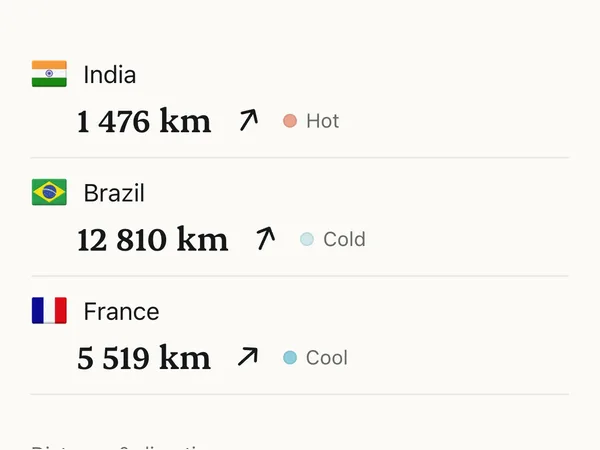
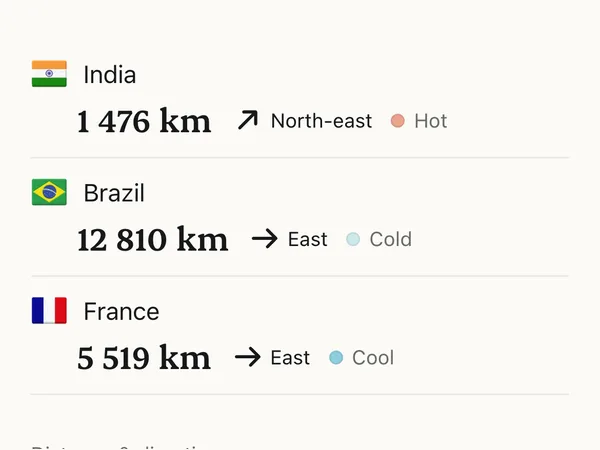
GeoWordle arrows snap to their eight compass words; help pictures show the new map

Changed region(s): [[0.42, 0.4978, 0.69, 0.56], [0.39, 0.2489, 0.75, 0.3111], [0.39, 0.7778, 0.66, 0.8089]]

diff --git a/src/games/geo-wordle/board.tsx b/src/games/geo-wordle/board.tsx
@@ -15,7 +15,9 @@ import './geo-wordle.css';
 interface GeoBoardProps {state:GeoWordleView;dispatch:(action:GeoCommitAction)=>void;busy:boolean;pendingGuess?:string|null}
 function kmLabel(km:number):string{return `${String(Math.max(0,Math.round(km))).replace(/\B(?=(\d{3})+(?!\d))/g,' ')} km`;}
 function bandLabel(g:GeoGuess):string {return g.correct?'Found it':g.sharedBorder?'Neighbour':g.distanceKm===0?'Very close':g.band[0].toUpperCase()+g.band.slice(1);}
-function Arrow({bearing}:{bearing:number}){return <svg className="gw-arrow" viewBox="0 0 24 24" width="22" height="22" aria-hidden="true" style={{transform:`rotate(${Math.round(bearing-90)}deg)`}}><path d="M4 12h16m-6-6 6 6-6 6" fill="none" stroke="currentColor" strokeWidth="2.25" strokeLinecap="round" strokeLinejoin="round"/></svg>;}
+/** Arrows snap to the same eight directions as the word beside them, so an arrow never says more or less than its label. */
+function compass(bearing:number):number{return (Math.round(bearing/45)%8)*45;}
+function Arrow({bearing}:{bearing:number}){return <svg className="gw-arrow" viewBox="0 0 24 24" width="22" height="22" aria-hidden="true" style={{transform:`rotate(${compass(bearing)-90}deg)`}}><path d="M4 12h16m-6-6 6 6-6 6" fill="none" stroke="currentColor" strokeWidth="2.25" strokeLinecap="round" strokeLinejoin="round"/></svg>;}
 /** "north-east" → "North-east": the word under the arrow, so the direction never depends on reading an angle. */
 function directionWord(direction:string):string{return direction?direction[0].toUpperCase()+direction.slice(1):'';}
 /** The projected bounding box of an SVG path's absolute M/L points. */
@@ -56,7 +58,7 @@ function GuessMap({state,onPick,pendingIso3,className}:{state:GeoWordleView;onPi
   })}
   {/* While playing, every miss points from its centre towards the hidden country, the same direction as its row. */}
   {!finished?state.guesses.filter(g=>!g.correct).map(g=>{const c=centroidPoint(g.iso3);if(!c)return null;const isLatest=g===latest;
-   return <g key={`arrow-${g.iso3}`} className={`gw-map-arrow${isLatest?' gw-map-arrow-latest':''}`} transform={`translate(${c.x} ${c.y}) rotate(${Math.round(g.bearingDeg-90)}) scale(${k*(isLatest?2.8:2.3)})`}>
+   return <g key={`arrow-${g.iso3}`} className={`gw-map-arrow${isLatest?' gw-map-arrow-latest':''}`} transform={`translate(${c.x} ${c.y}) rotate(${compass(g.bearingDeg)-90}) scale(${k*(isLatest?2.8:2.3)})`}>
     <path d="M0 0h22m-7-7 7 7-7 7" className="gw-map-arrow-halo"/><path d="M0 0h22m-7-7 7 7-7 7" className="gw-map-arrow-line"/><circle r="3" className="gw-map-arrow-dot"/></g>;}):null}
   {pendingIso3&&mapCountryPaths[pendingIso3]?<path className="gw-pending-land" d={mapCountryPaths[pendingIso3]} vectorEffect="non-scaling-stroke"/>:null}
   {answer?state.guesses.filter(g=>!g.correct).map(g=>{const a=centroidPoint(g.iso3);if(!a)return null;return Math.abs(a.x-answer.x)<360?<line key={`route-${g.iso3}`} className="gw-route" x1={a.x} y1={a.y} x2={answer.x} y2={answer.y} stroke="var(--color-ink)" strokeWidth="1" strokeDasharray="4 3" vectorEffect="non-scaling-stroke"/>:null;}):null}
